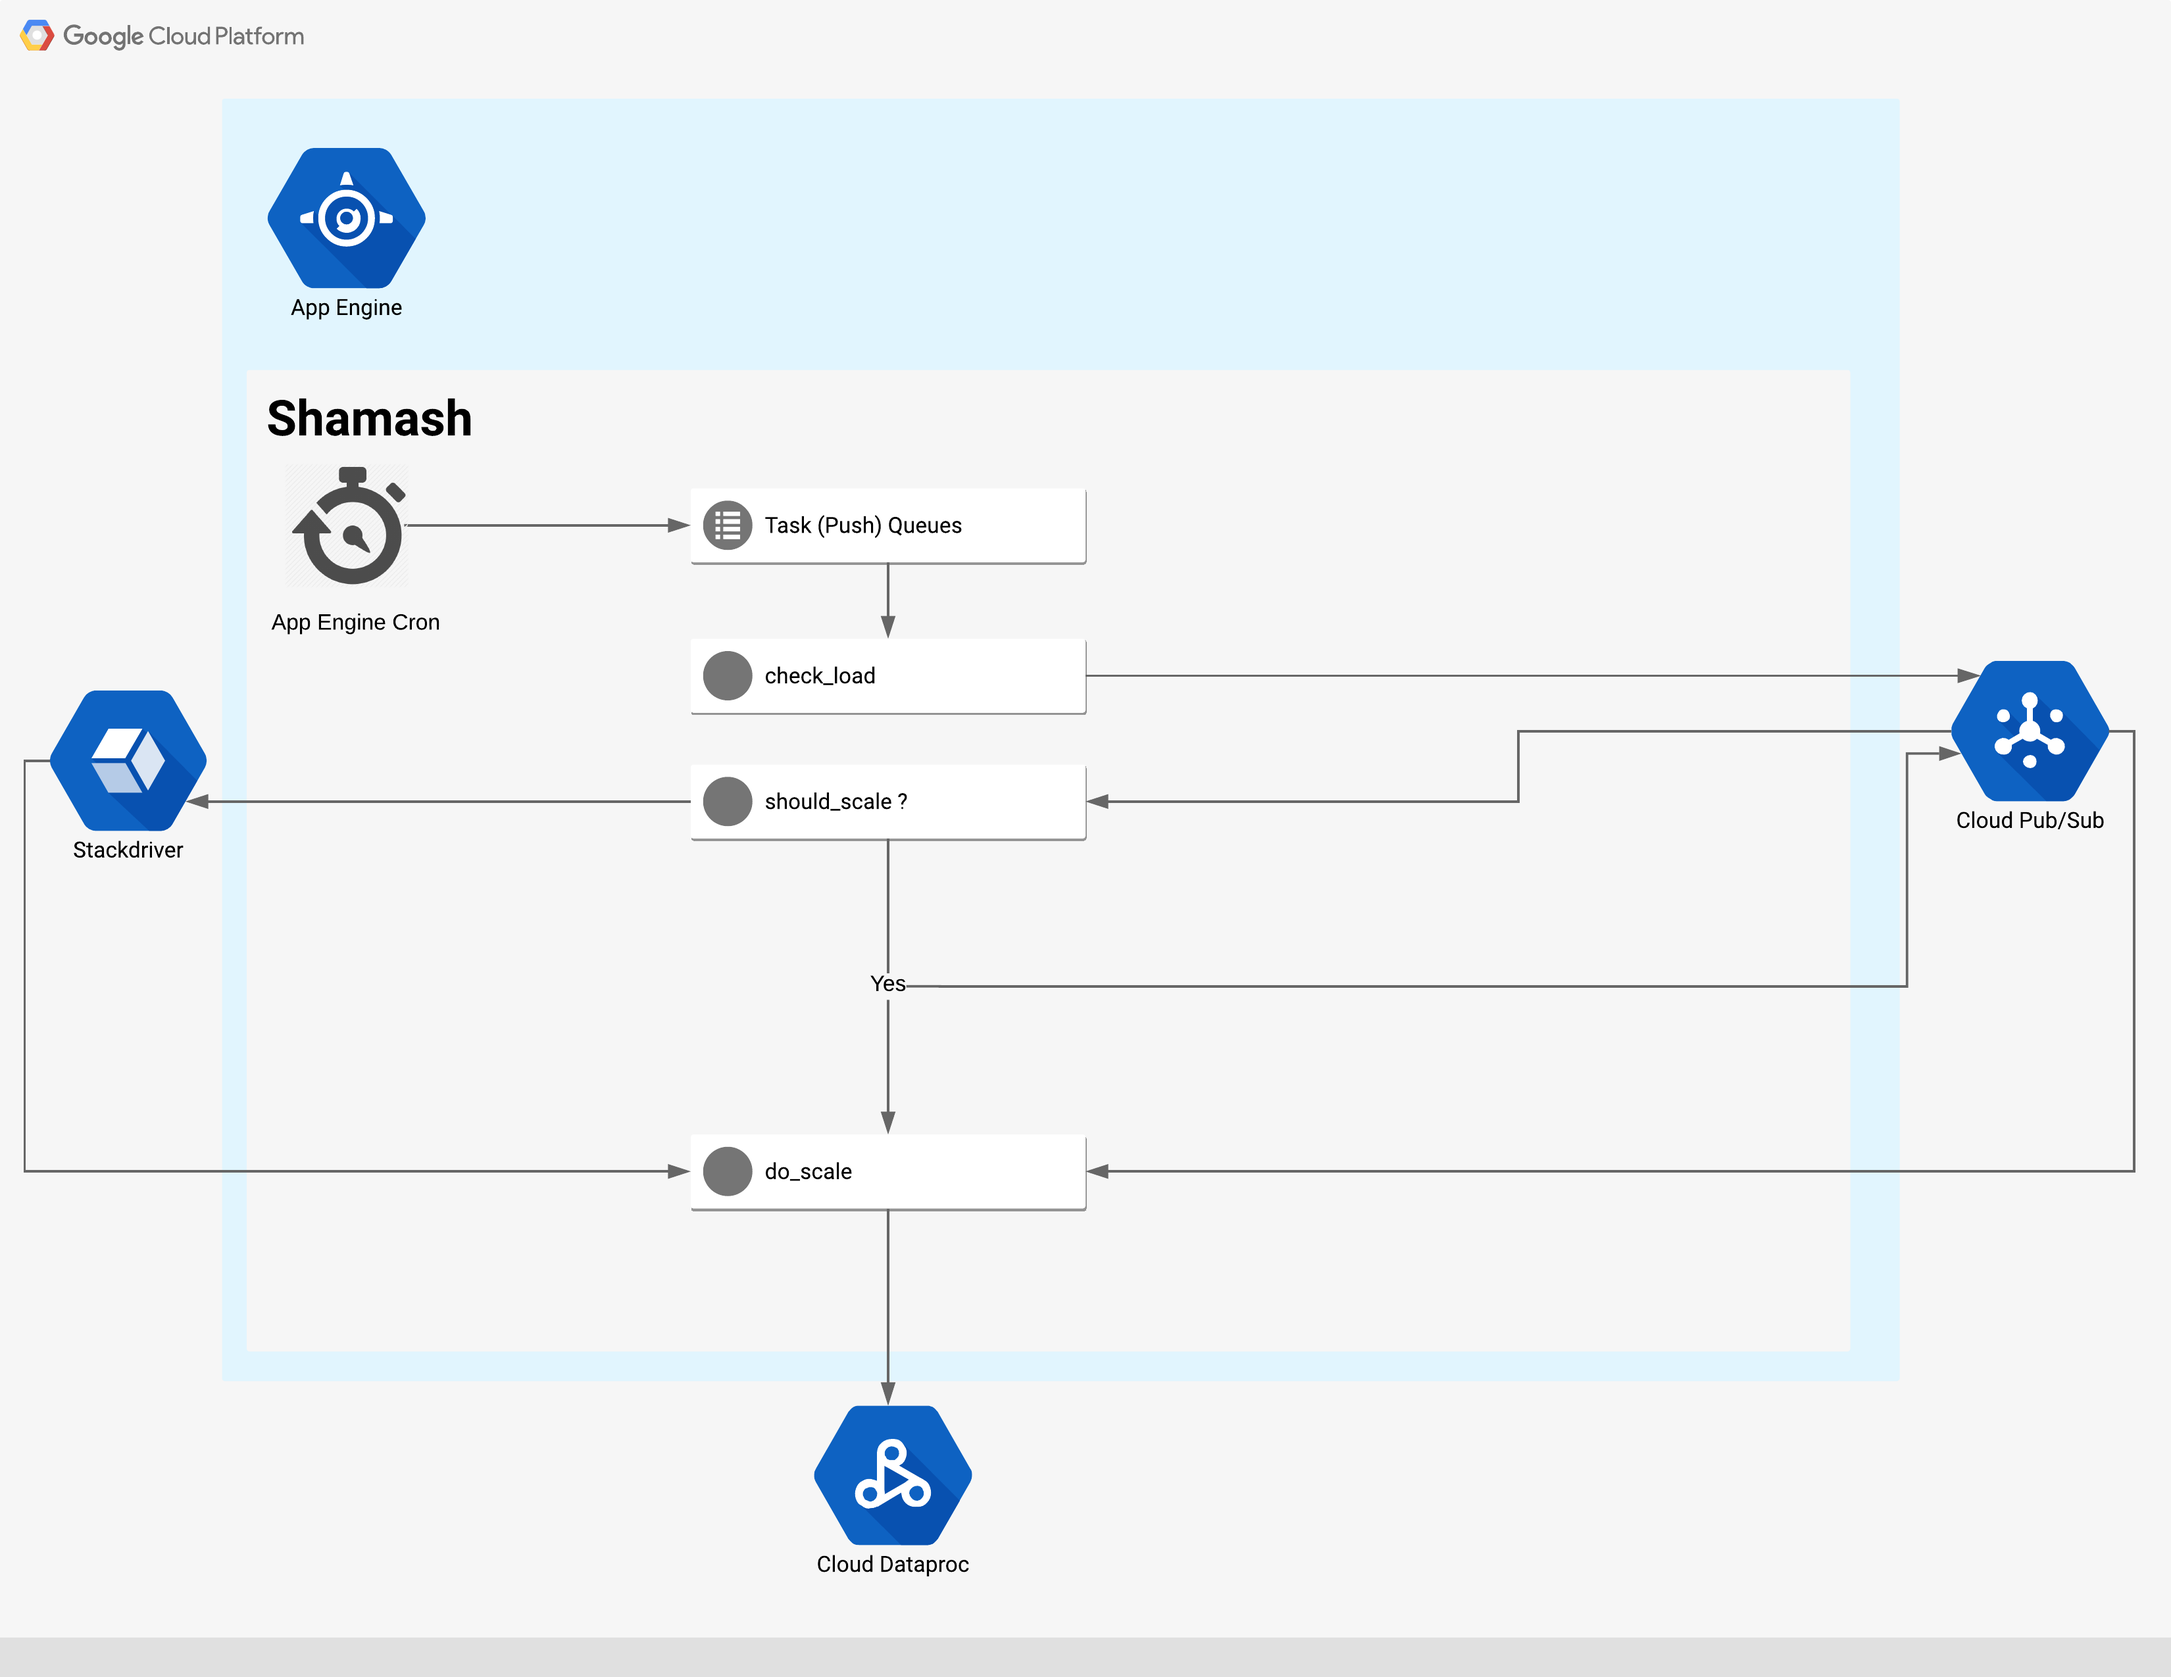
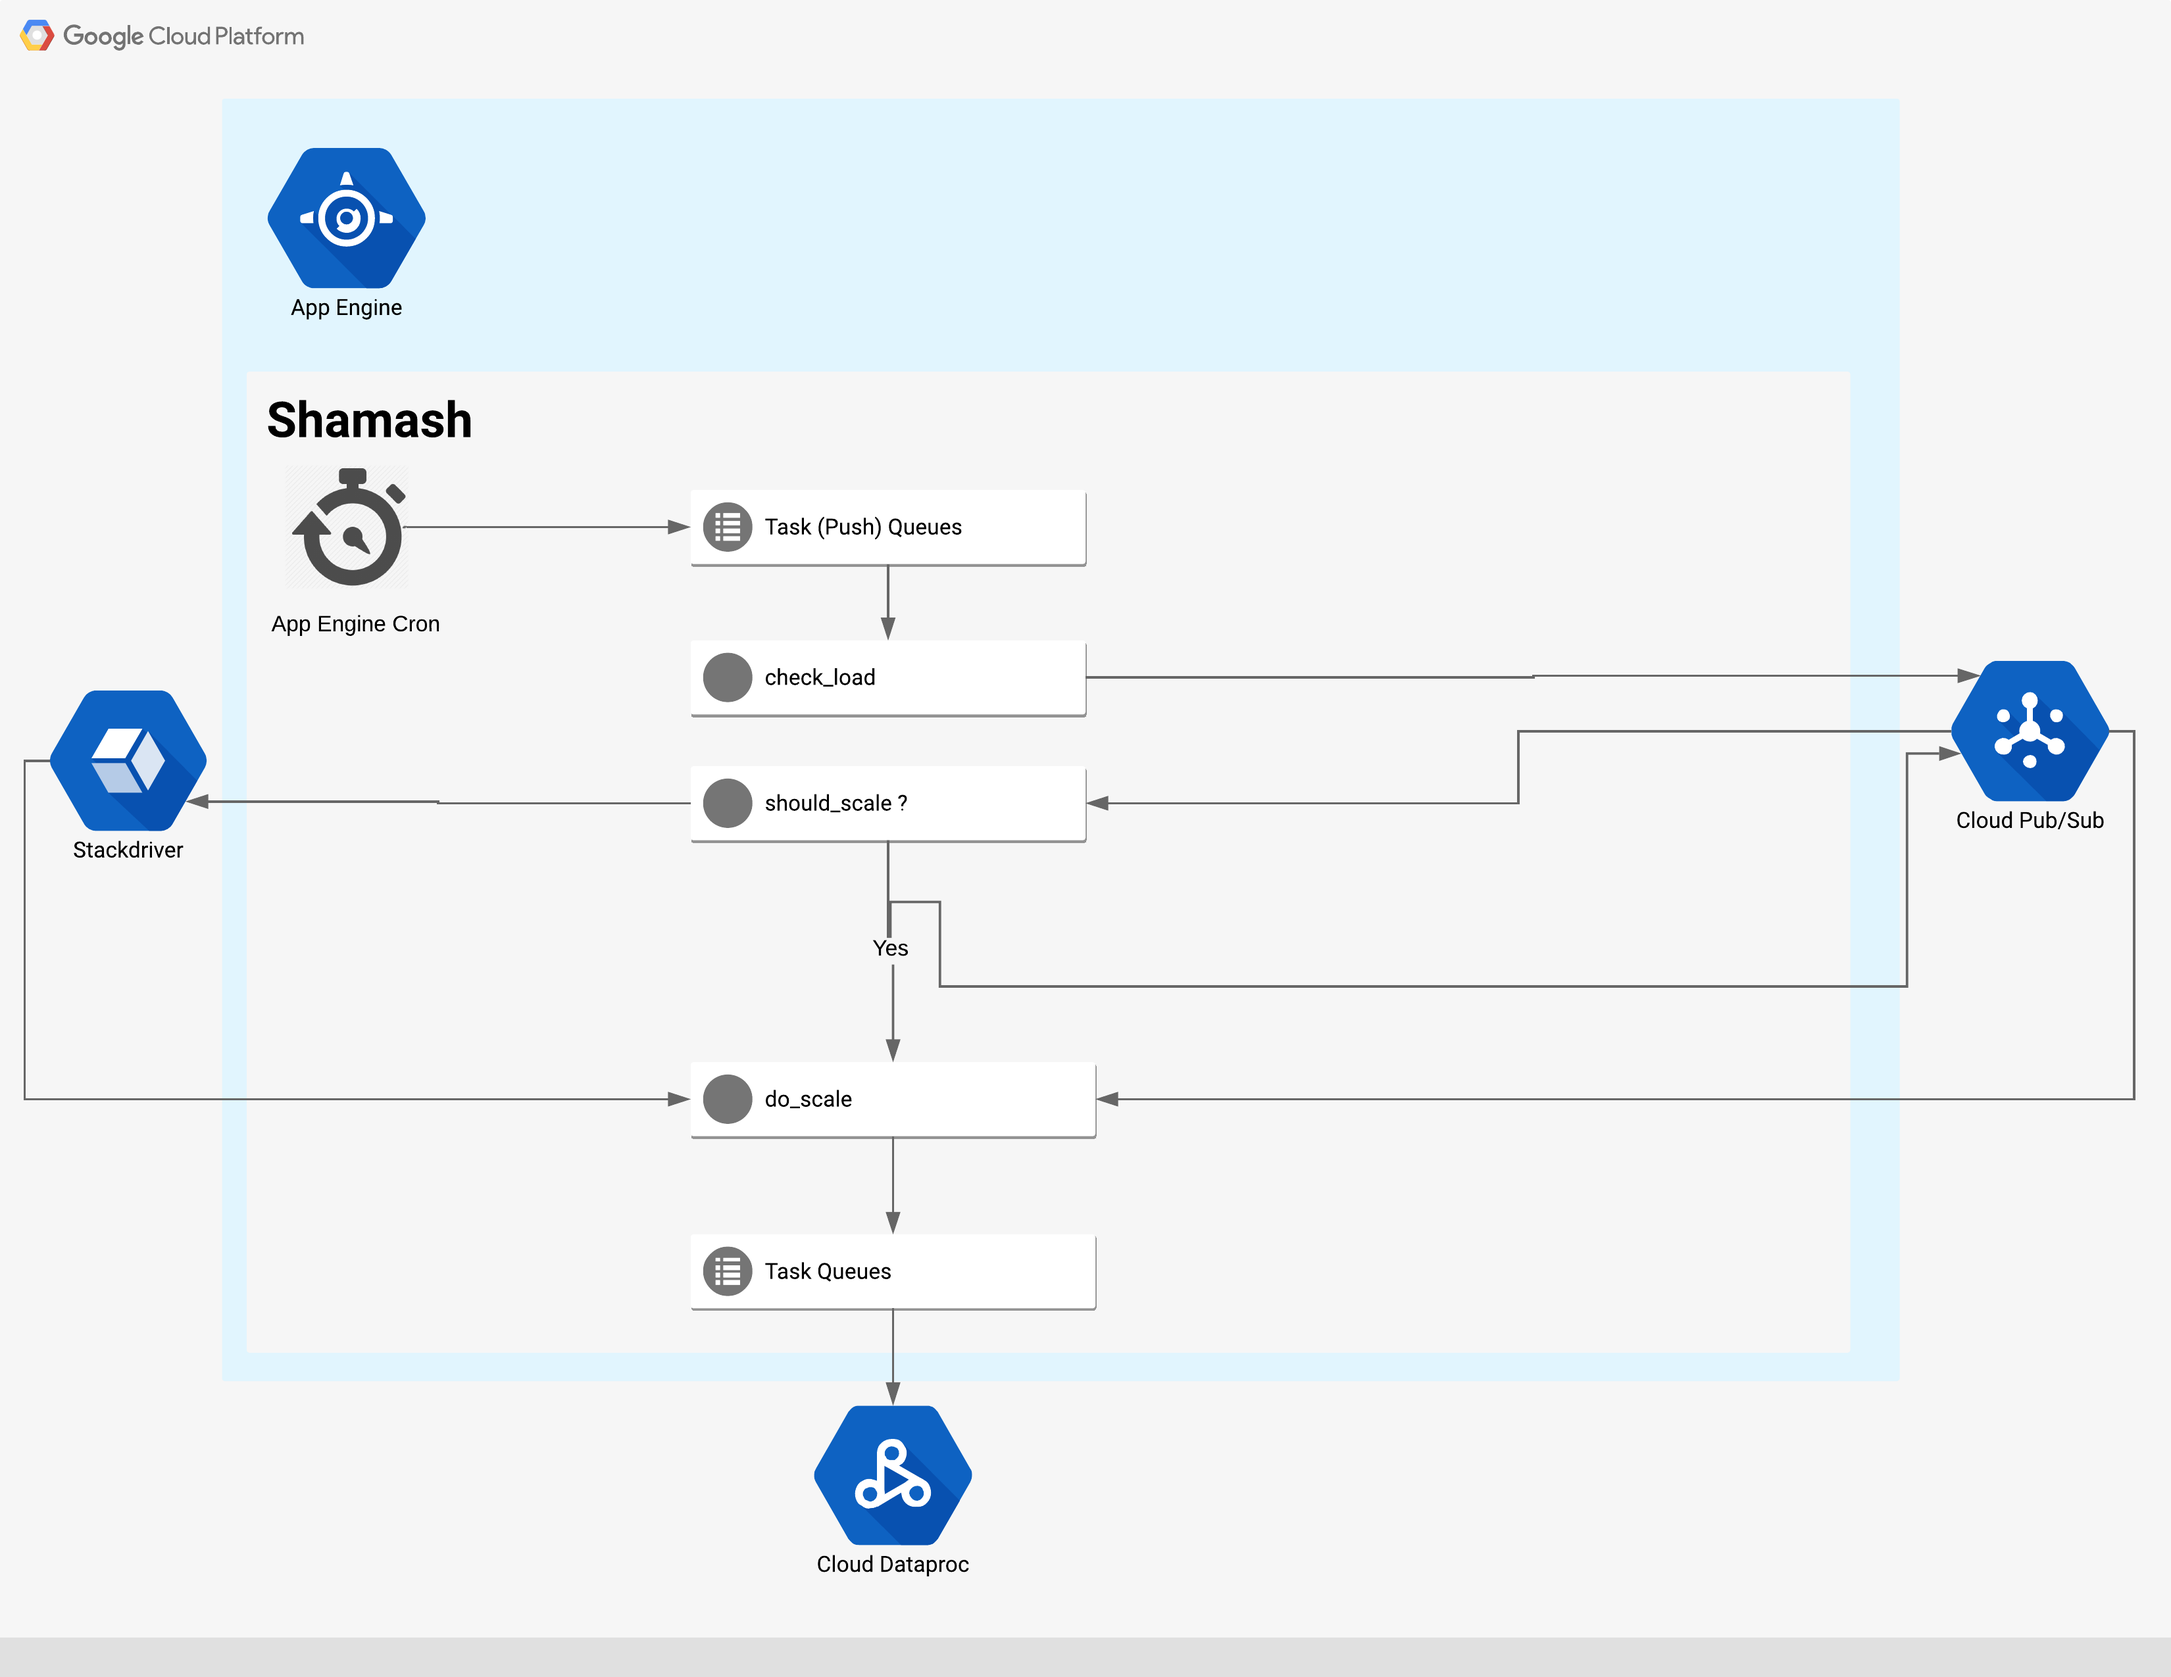
Fixes #35
1. Patch are done in tasks (may take more then 60s)
2. We now calculating  the pending scale the same way as memory scale
3. Cron job run once every 2m and not 5m

diff --git a/scaling/scaling.py b/scaling/scaling.py
@@ -4,12 +4,12 @@ import json
 import logging
 
 import numpy as np
+from google.appengine.api import taskqueue
 
 from model import settings
 from monitoring import dataproc_monitoring, metrics
 
 TIME_SERIES_HISTORY_IN_MINUTES = 60
-NO_MORE_MEMORY_STEP = 4
 
 
 class ScalingException(Exception):
@@ -72,15 +72,41 @@ class Scale:
             logging.debug("No allocated memory lets go down! New workers {}"
                           " New preemptibel".format(self.total))
             return
-
-        # no more memory lets get some lets at 4 nodes
+        """ no more memory lets get some  nodes. claculate how many memory each
+         node uses. Then calculate how many nodes we need by memory consumption  
+        """
         if self.dp.get_yarn_memory_available_percentage() == 0:
-            add_more = NO_MORE_MEMORY_STEP
-            logging.debug("no more memory lets get {}  nodes".format(add_more))
-
-            self.total = self.current_nodes + add_more
-            logging.debug("New workers {}  prev {} ".format(
+            yarn_memory_mb_allocated, yarn_memory_mb_pending = self.dp.get_memory_data(
+            )
+            ratio = float(
+                int(yarn_memory_mb_allocated) / int(self.current_nodes))
+            factor = float(int(yarn_memory_mb_pending) / ratio)
+            self.total = int(self.current_nodes * factor)
+            logging.debug(
+                "yarn_memory_mb_allocated {} pending {} ratio {} factor {}"
+                " current {} total {}".format(
+                    yarn_memory_mb_allocated, yarn_memory_mb_pending, ratio,
+                    factor, self.current_nodes, self.total))
+            logging.debug("No More Mem! New workers {}  prev {} ".format(
                 self.total, self.current_nodes))
+            return
+
+        # pending containers are waiting....
+        if self.containerpendingratio != -1:
+            yarn_containers_allocated, yarn_containers_pending = self.dp.get_container_data(
+            )
+            ratio = float(
+                int(yarn_containers_allocated) / int(self.current_nodes))
+            factor = float(int(yarn_containers_pending) / ratio)
+            self.total = int(self.current_nodes * factor)
+            logging.debug(
+                "yarn_containers_allocated {} pending {} ratio {} factor {}"
+                " current {} total {}".format(
+                    yarn_containers_allocated, yarn_containers_pending, ratio,
+                    factor, self.current_nodes, self.total))
+            logging.debug(
+                "Need more containers! New workers {}  prev {} ".format(
+                    self.total, self.current_nodes))
             return
 
         self.calc_scale()
@@ -90,7 +116,7 @@ class Scale:
         calculate and actually scale the cluster
         :return:
         """
-        logging.debug("Starting do_scale  {}".format(self.total))
+        logging.debug("Starting do_scale  {}".format(self.current_nodes))
         self.calc_how_many()
         self.total = min(self.total, self.MaxInstances)
         logging.info("Scaling to workers {} ".format(self.total))
@@ -103,12 +129,16 @@ class Scale:
         new_workers, new_preemptible = self.preserve_ratio()
 
         # do the scaling
-
-        try:
-            self.dp.patch_cluster(new_workers, new_preemptible)
-        except dataproc_monitoring.DataProcException as e:
-            logging.error(e)
-            return 'Error', 500
+        task = taskqueue.add(
+            queue_name="shamash",
+            url="/do_patch",
+            method='GET',
+            params={
+                'cluster_name': self.cluster_name,
+                'new_workers': new_workers,
+                'new_preemptible': new_preemptible
+            })
+        logging.debug('Task {} enqueued, ETA {}.'.format(task.name, task.eta))
         return 'ok', 204
 
     def calc_slope(self, minuets):
@@ -148,20 +178,13 @@ class Scale:
         :return:
         """
 
-        # pending containers are waiting....
-        if self.containerpendingratio != -1:
-            self.total = int(self.current_nodes + self.current_nodes *
-                             (1 / self.preemptible_pct))
+        sl = self.calc_slope(TIME_SERIES_HISTORY_IN_MINUTES)
+        if sl != 0:
+            slope = (1 / sl)
+            logging.debug('Slope is {}'.format(slope))
+            self.total = self.total + slope
             logging.debug("New workers {}  prev {} ".format(
                 self.total, self.current_nodes))
-        else:
-            sl = self.calc_slope(TIME_SERIES_HISTORY_IN_MINUTES)
-            if sl != 0:
-                slope = (1 / sl)
-                logging.debug('Slope is {}'.format(slope))
-                self.total = self.total + slope
-                logging.debug("New workers {}  prev {} ".format(
-                    self.total, self.current_nodes))
         logging.info("New workers {}  prev {} ".format(self.total,
                                                        self.current_nodes))
 
@@ -171,8 +194,8 @@ class Scale:
         """
 
         scale_ratio = (float(self.cluster_settings.PreemptiblePct) / 100.0)
-        new_preemptible = int(scale_ratio * self.total)
-        new_workers = int((1 - scale_ratio) * self.total)
+        new_preemptible = int(round(scale_ratio * self.total))
+        new_workers = int(round((1 - scale_ratio) * self.total))
         logging.debug("new_workers {} new_preemptible {}".format(
             new_workers, new_preemptible))
         # Make sure that we have the minimum normal workers
@@ -189,6 +212,7 @@ class Scale:
                     new_preemptible))
             diff = self.total - (new_workers + new_preemptible)
             new_preemptible = new_preemptible + diff
+        new_preemptible = max(0, new_preemptible)
 
         logging.debug("After adjustment {} {} ".format(new_workers,
                                                        new_preemptible))

diff --git a/monitoring/dataproc_monitoring.py b/monitoring/dataproc_monitoring.py
@@ -96,10 +96,10 @@ class DataProc:
         """
         try:
             res = self.__get_cluster_data()
-            yarn_memory_mb_allocated = int(res["metrics"]["yarnMetrics"][
-                "yarn-memory-mb-allocated"])
-            yarn_memory_mb_available = int(res["metrics"]["yarnMetrics"][
-                                               "yarn-memory-mb-available"])
+            yarn_memory_mb_allocated = int(
+                res["metrics"]["yarnMetrics"]["yarn-memory-mb-allocated"])
+            yarn_memory_mb_available = int(
+                res["metrics"]["yarnMetrics"]["yarn-memory-mb-available"])
             total_memory = yarn_memory_mb_allocated + yarn_memory_mb_available
 
             return int(yarn_memory_mb_available) / int(total_memory)
@@ -178,25 +178,26 @@ class DataProc:
 
     def get_number_of_preemptible_workers(self):
         """Get the number of 'real workers"""
+        nodes = 0
         if self.cluster_settings.PreemptiblePct == 0:
             return 0
         if self.get_number_of_workers() - self.get_number_of_nodes() == 0:
             return 0
-        nodes = 0
         try:
             res = self.__get_cluster_data()
-            nodes = int(res['config']["secondaryWorkerConfig"]["numInstances"])
         except HttpError as e:
             logging.error(e)
             raise DataProcException(e)
-        except KeyError as e:
-            logging.error(res)
-            logging.info(e)
+        if res.get('config') is not None:
+            if res.get('config').get('secondaryWorkerConfig') is not None:
+                nodes = res.get('config').get('secondaryWorkerConfig').get(
+                    'numInstances')
+                if nodes is None:
+                    nodes = 0
         return nodes
 
     def patch_cluster(self, worker_nodes, preemptible_nodes):
         """Update number of nodes in a cluster"""
-        """Wait for cluster"""
         logging.debug("Wants {} {} got {} {}".format(
             worker_nodes, preemptible_nodes, self.get_number_of_workers(),
             self.get_number_of_preemptible_workers()))
@@ -215,6 +216,7 @@ class DataProc:
         def _is_cluster_running():
             return self.get_cluster_status().lower() == 'running'
 
+        """Wait for cluster"""
         _is_cluster_running()
         if self.get_number_of_workers() != worker_nodes:
             body = json.loads('{"config":{"workerConfig":{"numInstances":%d}}}'
@@ -225,7 +227,7 @@ class DataProc:
             except HttpError as e:
                 raise DataProcException(e)
         if self.get_number_of_preemptible_workers() == preemptible_nodes:
-            return
+            return 'ok', 204
         body = json.loads(
             '{"config":{"secondaryWorkerConfig":{"numInstances":%d}}}' %
             preemptible_nodes)
@@ -235,6 +237,7 @@ class DataProc:
             _do_request(update_mask)
         except HttpError as e:
             raise DataProcException(e)
+        return 'ok', 200
 
     def check_load(self):
         """Get the current cluster metrics and publish them to pub/sub """
@@ -273,3 +276,33 @@ class DataProc:
             logging.error(e)
             return 'Error', 500
         return 'OK', 204
+
+    def get_memory_data(self):
+        try:
+            res = self.__get_cluster_data()
+        except (HttpError, KeyError) as e:
+            logging.error(res)
+            logging.error(e)
+            raise DataProcException(e)
+        else:
+            yarn_memory_mb_allocated = int(
+                res["metrics"]["yarnMetrics"]["yarn-memory-mb-allocated"])
+            yarn_memory_mb_pending = int(
+                res["metrics"]["yarnMetrics"]["yarn-memory-mb-pending"])
+
+            return yarn_memory_mb_allocated, yarn_memory_mb_pending
+
+    def get_container_data(self):
+        try:
+            res = self.__get_cluster_data()
+        except (HttpError, KeyError) as e:
+            logging.error(res)
+            logging.error(e)
+            raise DataProcException(e)
+        else:
+            yarn_containers_allocated = int(
+                res["metrics"]["yarnMetrics"]["yarn-containers-allocated"])
+            yarn_containers_pending = int(
+                res["metrics"]["yarnMetrics"]["yarn-containers-pending"])
+
+            return yarn_containers_allocated, yarn_containers_pending

diff --git a/main.py b/main.py
@@ -108,9 +108,29 @@ def do_monitor():
     return dp.check_load()
 
 
+@app.route('/do_patch', methods=['GET'])
+def do_patch():
+    """
+    called by task to do the actual cluster update
+    :return:
+    """
+    dp = dataproc_monitoring.DataProc(request.args.get('cluster_name'))
+    new_workers = int(request.args.get('new_workers'))
+    new_preemptible = int(request.args.get('new_preemptible'))
+    logging.debug('Patching new_workers {} new_preemptible {}'.format(
+        new_workers, new_preemptible))
+    try:
+        dp.patch_cluster(new_workers, new_preemptible)
+    except dataproc_monitoring.DataProcException as e:
+        logging.error(e)
+        return 'error', 500
+    return 'ok', 200
+
+
 @app.route('/favicon.ico')
 def favicon():
     return redirect('/static/favicon.ico', 302)
+
 
 @app.errorhandler(500)
 def server_error(e):

diff --git a/README.md b/README.md
@@ -69,7 +69,7 @@ Shamash requires both Google Compute Engine, Google Cloud Pub/Sub, Dataproc API 
 
 ## Flow
 
-* Every 5 minutes a cron job calls `/tasks/check_load` which create a task per cluster in the task queue.
+* Every 2 minutes a cron job calls `/tasks/check_load` which create a task per cluster in the task queue.
 * Each task is requesting `/do_monitor` with the cluster name as a parameter.
 * `/do_monitor` calls `check_load()`
 * `check_load()` get the data from the cluster and publishes it to pub/sub`pubsub.publish(pubsub_client, msg, MONITORING_TOPIC)`
